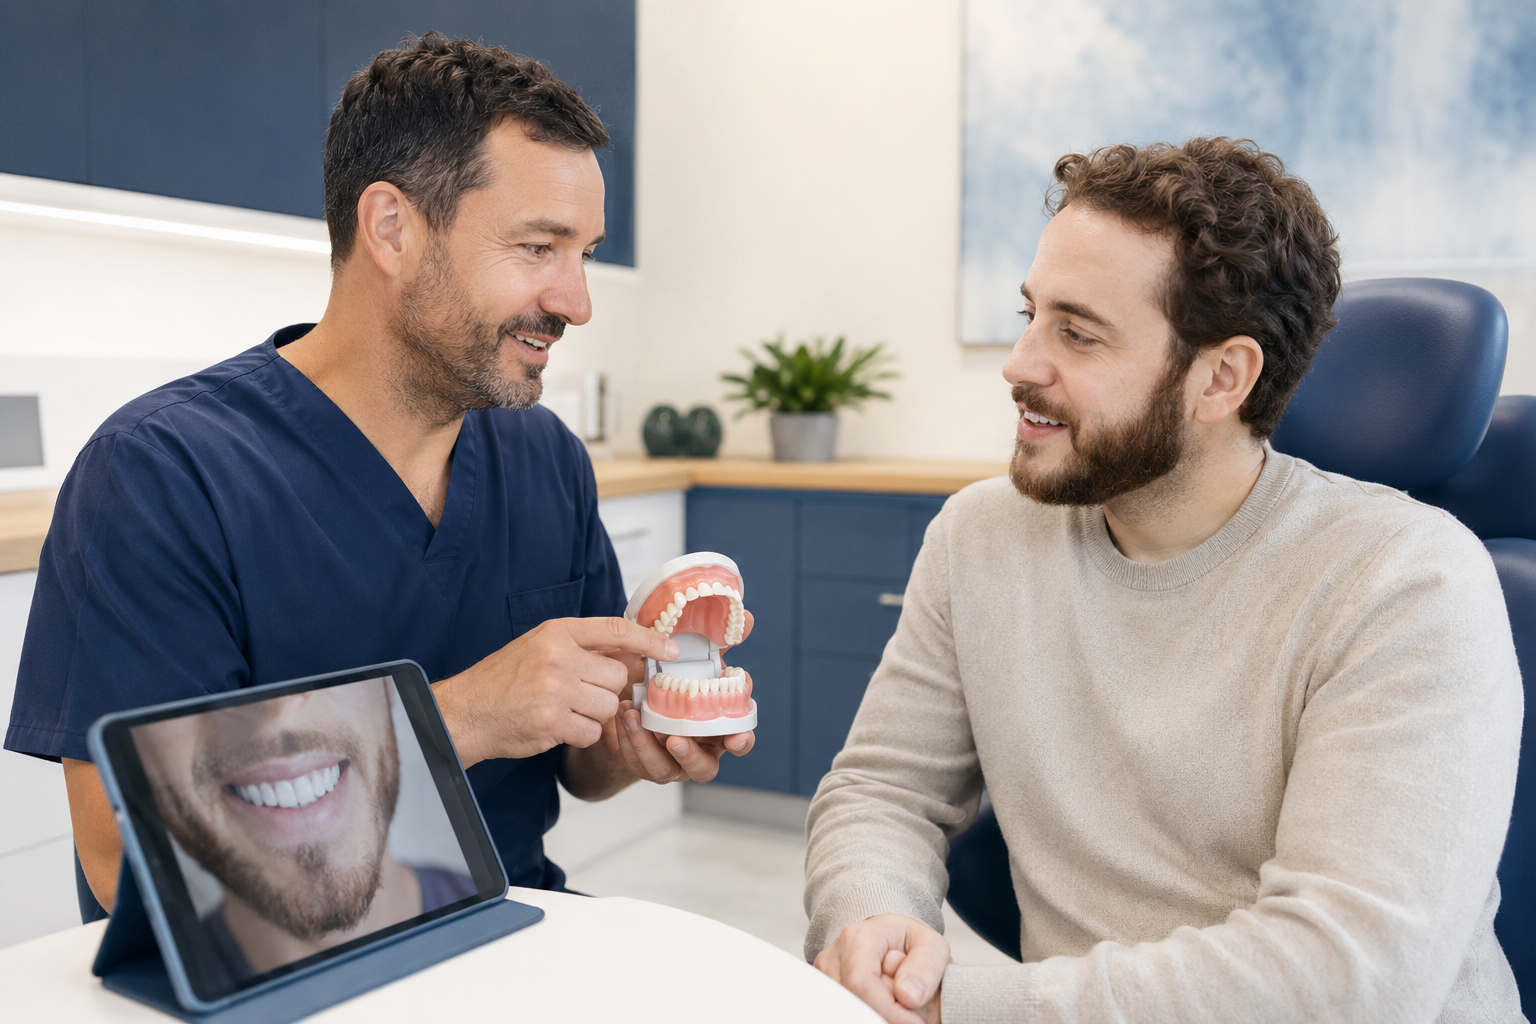
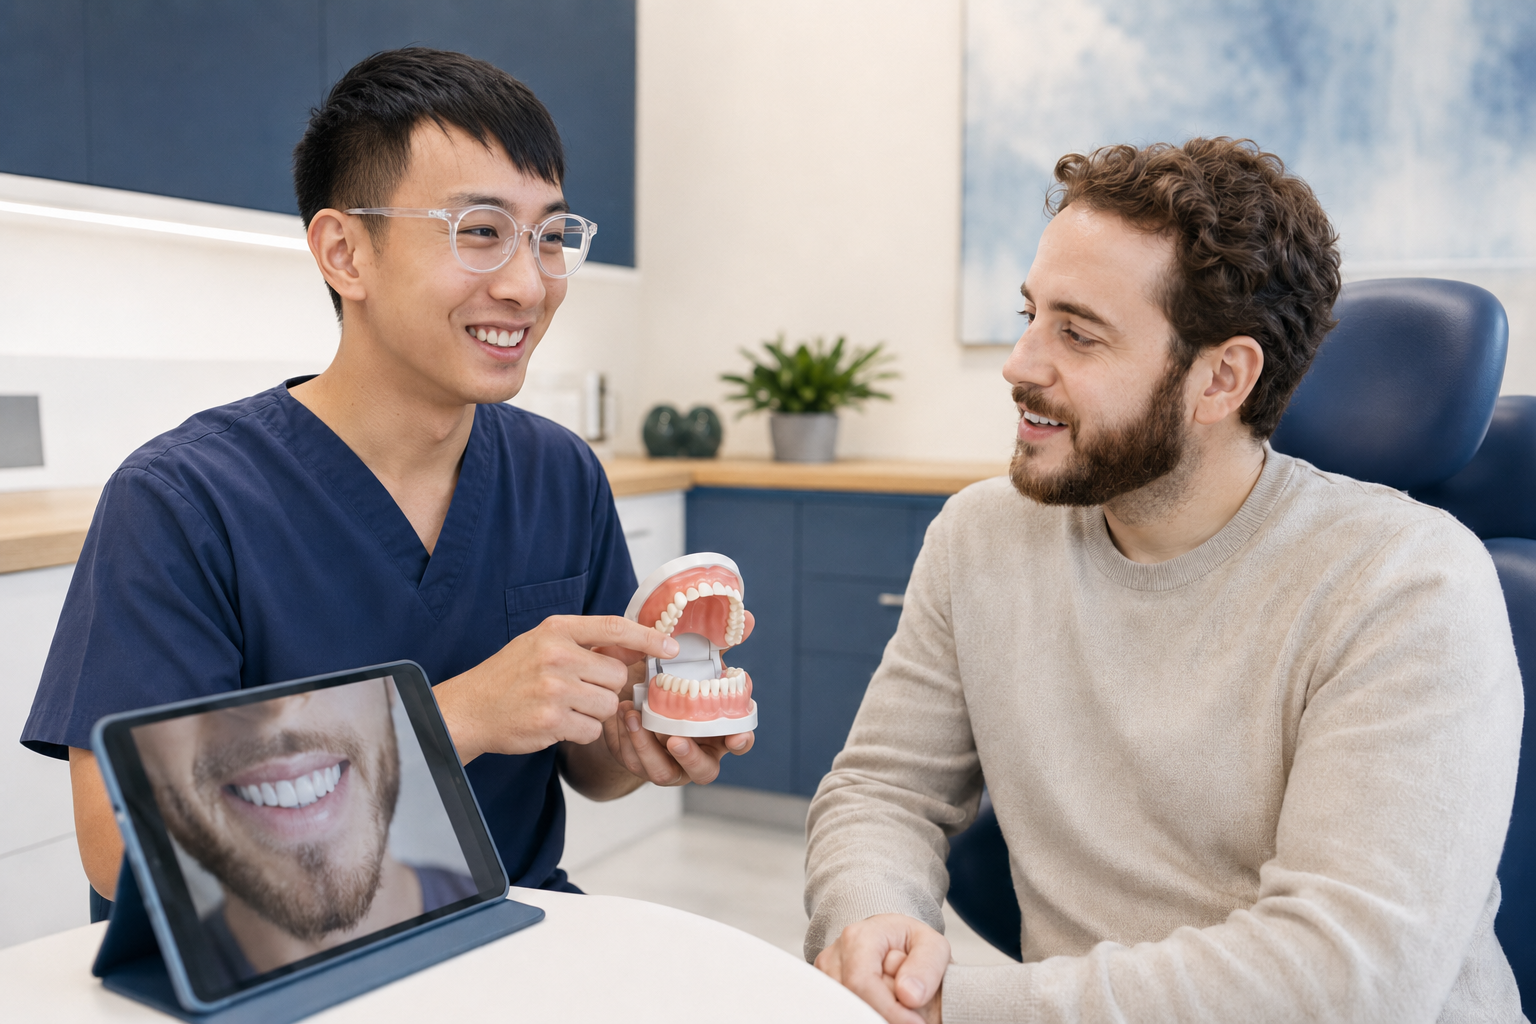
content: update the photos for services section

diff --git a/full-team.html b/full-team.html
@@ -100,7 +100,7 @@
         <section class="page-hero">
           <div class="page-hero__media">
             <img
-              src="images/who-we-are-bg.png"
+              src="images/full-team-bg-hero.png"
               alt="The Dilleen Dental team at the Rockhampton clinic"
             />
           </div>
